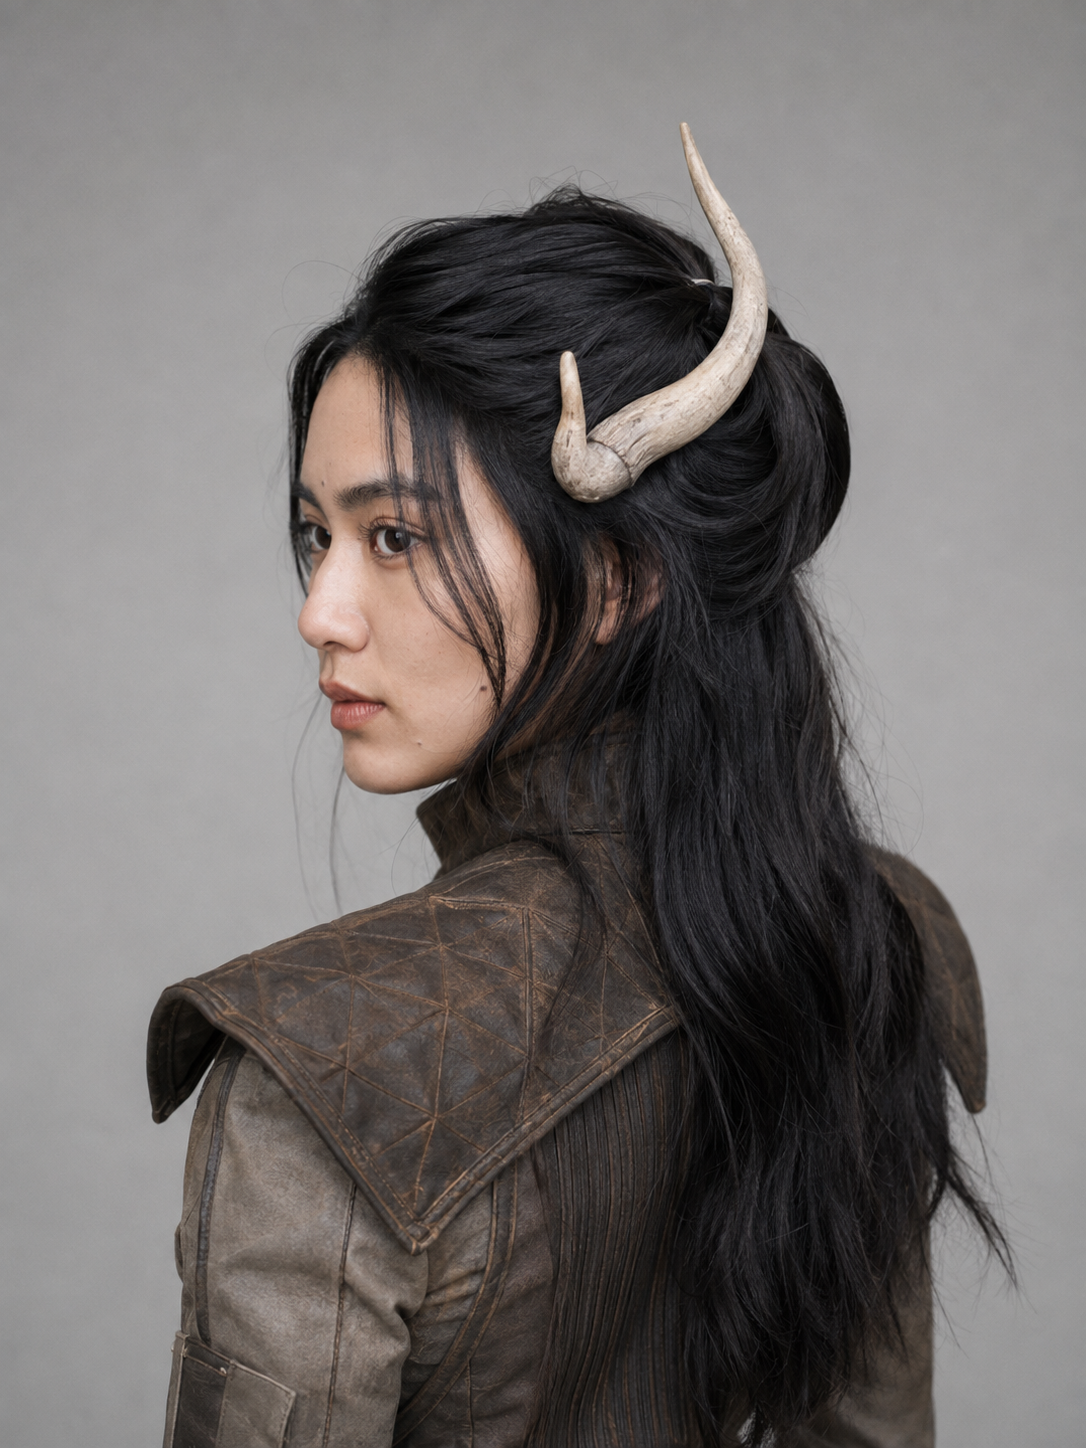
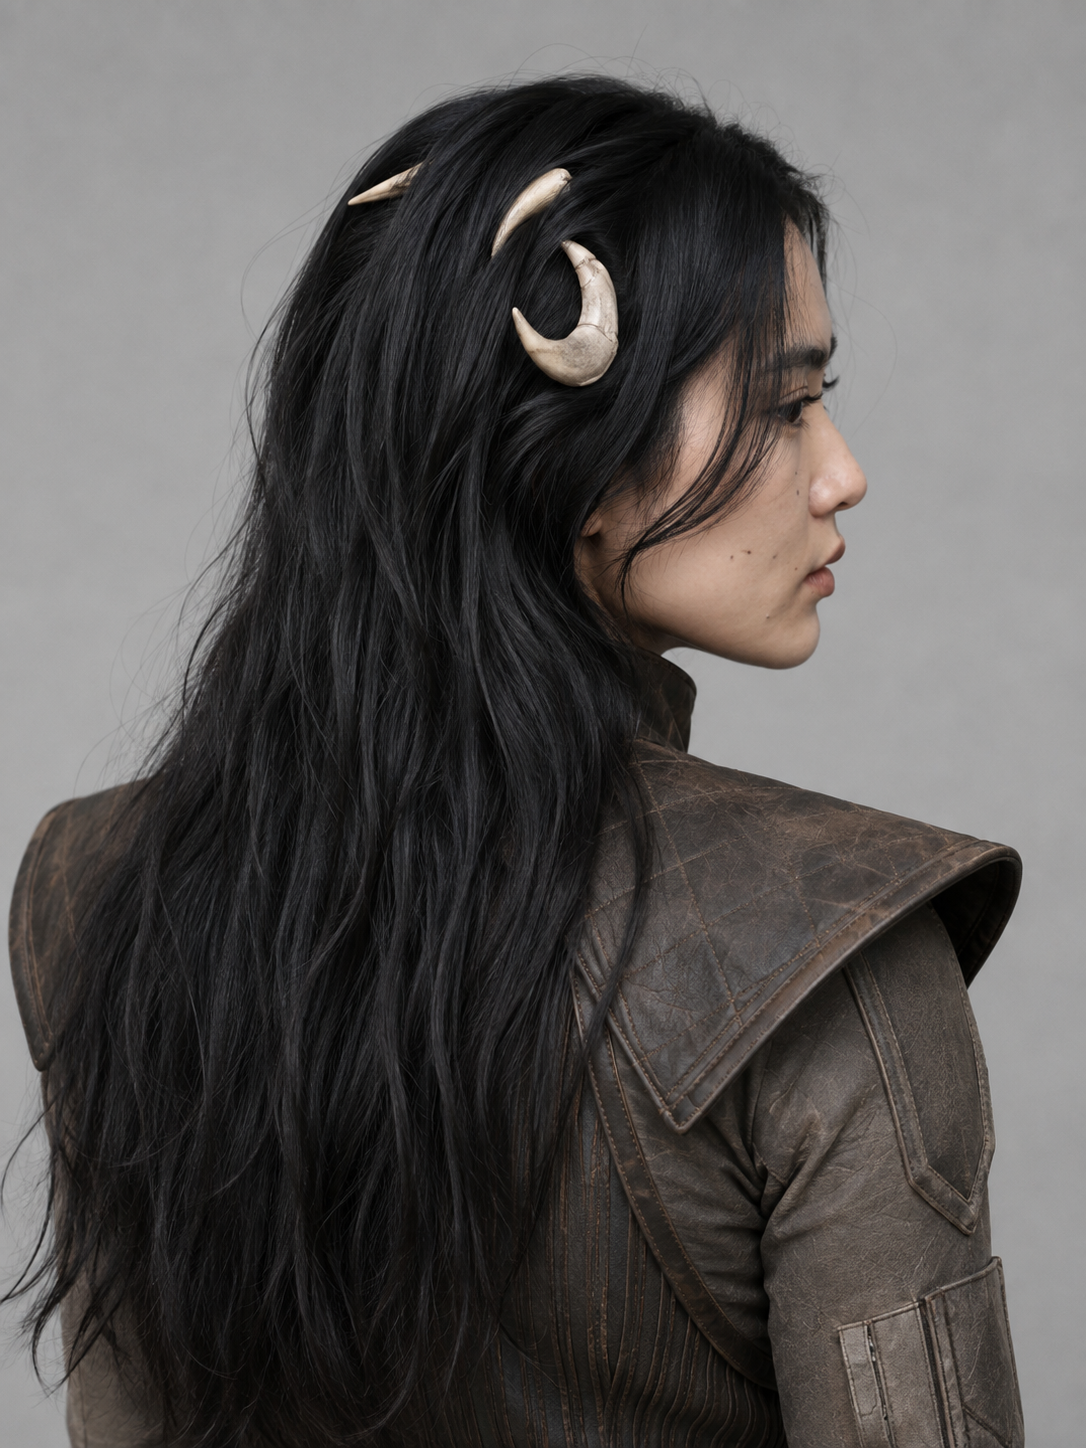
art(captain-jasu): headdress.png replaced and released
The half-up-knot plate is gone. Two known deviations accepted with the new
one and both recorded on the line: the diamond-quilted mantle, which is why
the surface paragraph now sits in slot 7, and the horns, which obey the
asymmetry rule and disagree with the five approved turnarounds.

diff --git a/11-production-tracking/Jasu-Image-TODO.md b/11-production-tracking/Jasu-Image-TODO.md
@@ -62,13 +62,11 @@ status: "open"
 > |---|---|
 > | `08-expression_strip.txt` | **Symmetric horns** and a mantle lattice, the same two faults `06-portrait` had. The mantle fix is in the slot and it worked on the portrait. **The horns will come back matched** — that is the reference, not the slot, and it is the open decision above |
 >
-> ~~`07-headdress.txt`~~ — **generated and accepted 2026-08-04. Hair fixed:**
-> fully down and loose, nothing gathered, nothing styled. **Not yet saved to
-> `source/artwork/`, so it stays in `do-not-publish.txt` until it is** — the file
-> on disk is still the half-up-knot version and releasing the line early would
-> publish exactly the plate the block exists to stop. Its mantle came back
-> diamond-quilted and that was accepted: `mantle_detail` is the authority on the
-> surface, not this frame. Its horns are the reason for the decision above.
+> ~~`07-headdress.txt`~~ — **done, saved and released 2026-08-04. Hair fixed:**
+> fully down and loose, nothing gathered, nothing styled. Its mantle came back
+> diamond-quilted and that was accepted — `mantle_detail` is the authority on
+> the surface, not this frame, and the paragraph is now in the slot for any
+> re-roll. **Its horns are the reason for the decision above.**
 >
 > ~~`04-captaining.txt`~~ · ~~`06-portrait.txt`~~ — **both done 2026-08-04.**
 > The portrait is the proof that **putting the mantle-surface text in the slot

diff --git a/REPO-STATE.md b/REPO-STATE.md
@@ -1,12 +1,12 @@
 # Repository state
 
-**Stamped 2026-08-04 12:34 UTC** — automatically, by `tools/hooks/pre-commit`, at the moment of
+**Stamped 2026-08-04 12:37 UTC** — automatically, by `tools/hooks/pre-commit`, at the moment of
 the commit that contains this file.
 
 | | |
 |---|---|
 | Branch | `main` |
-| Commit before this one | `b1d315f` |
+| Commit before this one | `488e131` |
 | Screenplay | `the-price-of-freedom-v10.fountain` |
 | Character folders | 12 |
 | Generated prompt files | 271 |
